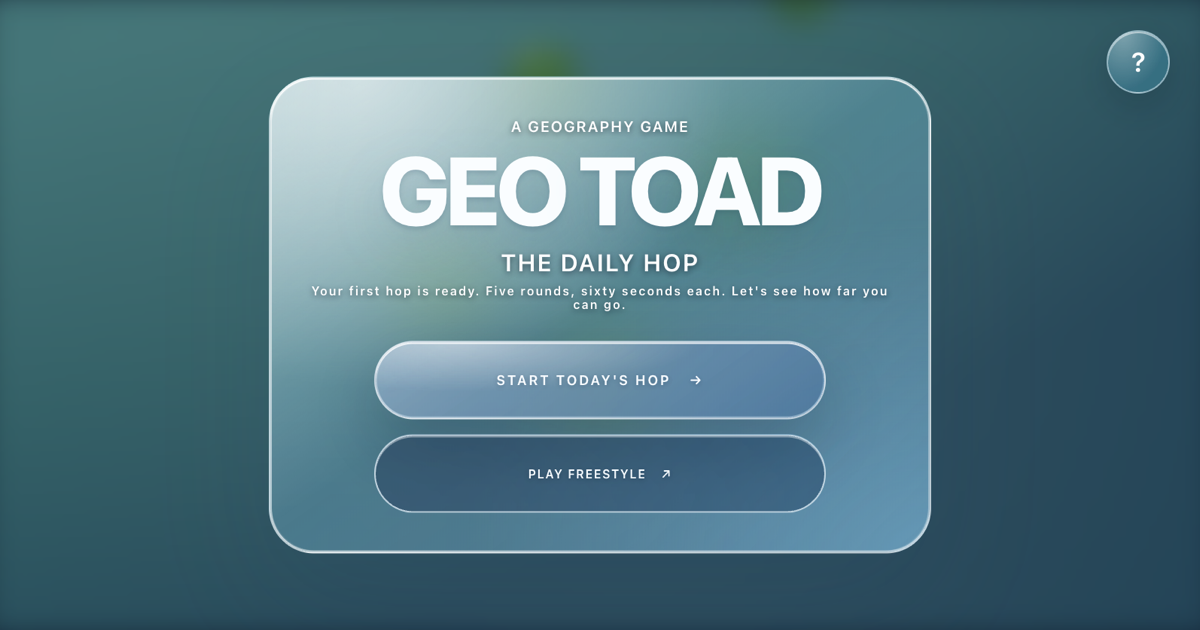
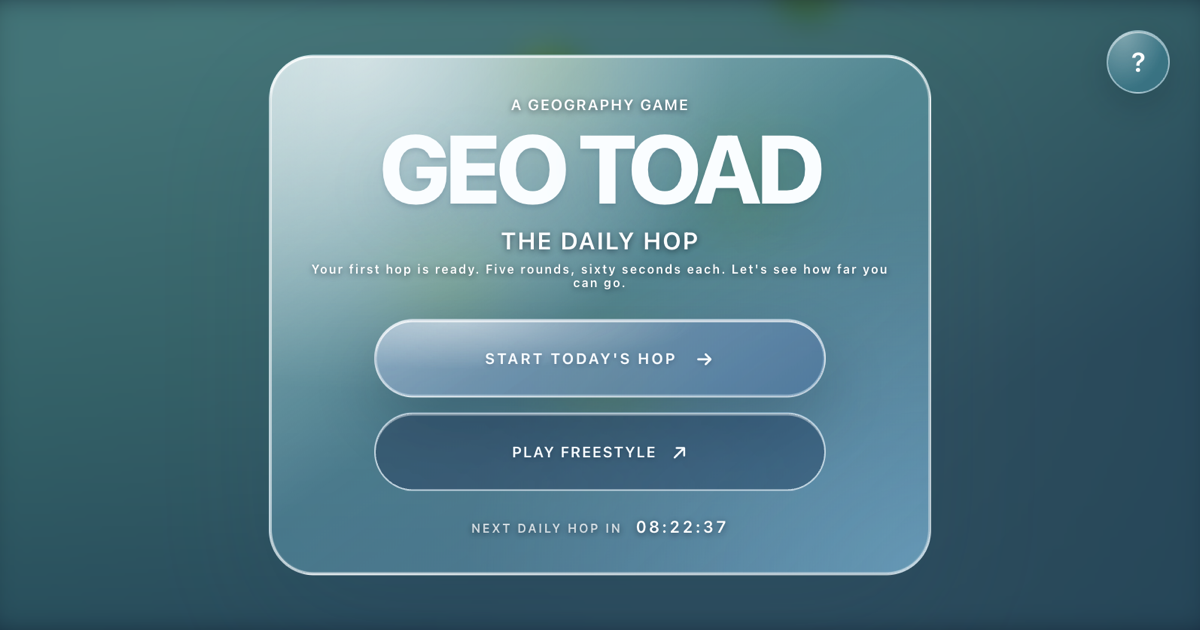
Add daily challenge countdown
Refresh the social preview to include the home-screen countdown.\n\nCo-authored-by: Copilot <223556219+Copilot@users.noreply.github.com>

Changed region(s): [[0.2158, 0.0603, 0.8017, 0.8444], [0.2158, 0.8143, 0.8017, 0.9349]]

diff --git a/app.js b/app.js
@@ -85,6 +85,7 @@ const elements = {
   homeStartButton: $("#home-start-button"),
   homeFreestyleButton: $("#home-freestyle-button"),
   homeDescription: $(".home-description"),
+  homeCountdown: $("#home-countdown"),
   frogCaption: $("#frog-caption"),
   frogQuestionBadge: $("#frog-question-badge"),
   pondCanvas: $("#pond-canvas"),
@@ -270,6 +271,8 @@ function init() {
   renderState();
   bindEvents();
   startPondRenderer();
+  updateHomeDailyCountdown();
+  window.setInterval(updateHomeDailyCountdown, 1000);
   window.setInterval(checkLocalDay, 30000);
   document.addEventListener("visibilitychange", checkLocalDay);
 }
@@ -512,6 +515,7 @@ function renderHome() {
   elements.homeDescription.textContent = hasCompletedToday
     ? "Today's hop is complete. Come see how you did."
     : "Your first hop is ready. Five rounds, sixty seconds each. Let's see how far you can go.";
+  updateHomeDailyCountdown();
   elements.homeFreestyleButton.hidden = false;
   elements.startButtonLabel.textContent = hasCompletedToday ? "VIEW TODAY'S SCORE" : "BEGIN TODAY'S HOP";
   elements.startButton.disabled = false;
@@ -590,6 +594,22 @@ function checkLocalDay() {
   elements.dailyBadgeLabel.textContent = "TODAY'S CHALLENGE";
   resetPondToCurrentProgress();
   renderState();
+}
+
+function updateHomeDailyCountdown() {
+  if (!elements.gameLayout.classList.contains("is-home")) return;
+  const now = new Date();
+  if (dateKey(now) !== today) {
+    checkLocalDay();
+    if (!elements.gameLayout.classList.contains("is-home")) return;
+  }
+  const nextMidnight = new Date(now.getFullYear(), now.getMonth(), now.getDate() + 1);
+  const remaining = Math.max(0, nextMidnight.getTime() - now.getTime());
+  const hours = String(Math.floor(remaining / 3600000)).padStart(2, "0");
+  const minutes = String(Math.floor((remaining % 3600000) / 60000)).padStart(2, "0");
+  const seconds = String(Math.floor((remaining % 60000) / 1000)).padStart(2, "0");
+  elements.homeCountdown.dateTime = nextMidnight.toISOString();
+  elements.homeCountdown.textContent = `${hours}:${minutes}:${seconds}`;
 }
 
 function getDailyGameNumber(key) {

diff --git a/style.css b/style.css
@@ -2380,6 +2380,36 @@ h1 > span { color: inherit; }
   white-space: nowrap;
 }
 
+.game-layout.is-home .home-start-button,
+.game-layout.is-home .home-freestyle-button {
+  font-size: 10px;
+}
+
+.game-layout.is-home .home-start-button > span,
+.game-layout.is-home .home-freestyle-button > span {
+  font-size: 13px;
+  line-height: 1;
+}
+
+.home-countdown {
+  display: flex;
+  align-items: baseline;
+  justify-content: center;
+  gap: 9px;
+  margin: 18px 0 0;
+  color: rgba(255, 255, 255, .76);
+  font: 600 8px/1 var(--sans);
+  letter-spacing: .14em;
+  text-shadow: 0 1px 4px rgba(0, 8, 24, .58);
+}
+
+.home-countdown time {
+  color: #fff;
+  font-variant-numeric: tabular-nums;
+  font-size: 11px;
+  letter-spacing: .12em;
+}
+
 .result-dialog,
 .help-dialog {
   border-color: rgba(235, 248, 255, .48);

diff --git a/index.html b/index.html
@@ -72,6 +72,7 @@
               <p class="home-description">Your first hop is ready. Five rounds, sixty seconds each. Let's see how far you can go.</p>
               <button class="home-start-button" id="home-start-button" type="button">START TODAY'S HOP <span aria-hidden="true">→</span></button>
               <button class="home-freestyle-button" id="home-freestyle-button" type="button">PLAY FREESTYLE <span aria-hidden="true">↗</span></button>
+              <p class="home-countdown">NEXT DAILY HOP IN <time id="home-countdown" aria-label="Time until the next daily challenge">00:00:00</time></p>
             </div>
             <button class="game-help-button" id="game-help-button" type="button" aria-label="How to play" title="How to play">?</button>
 
